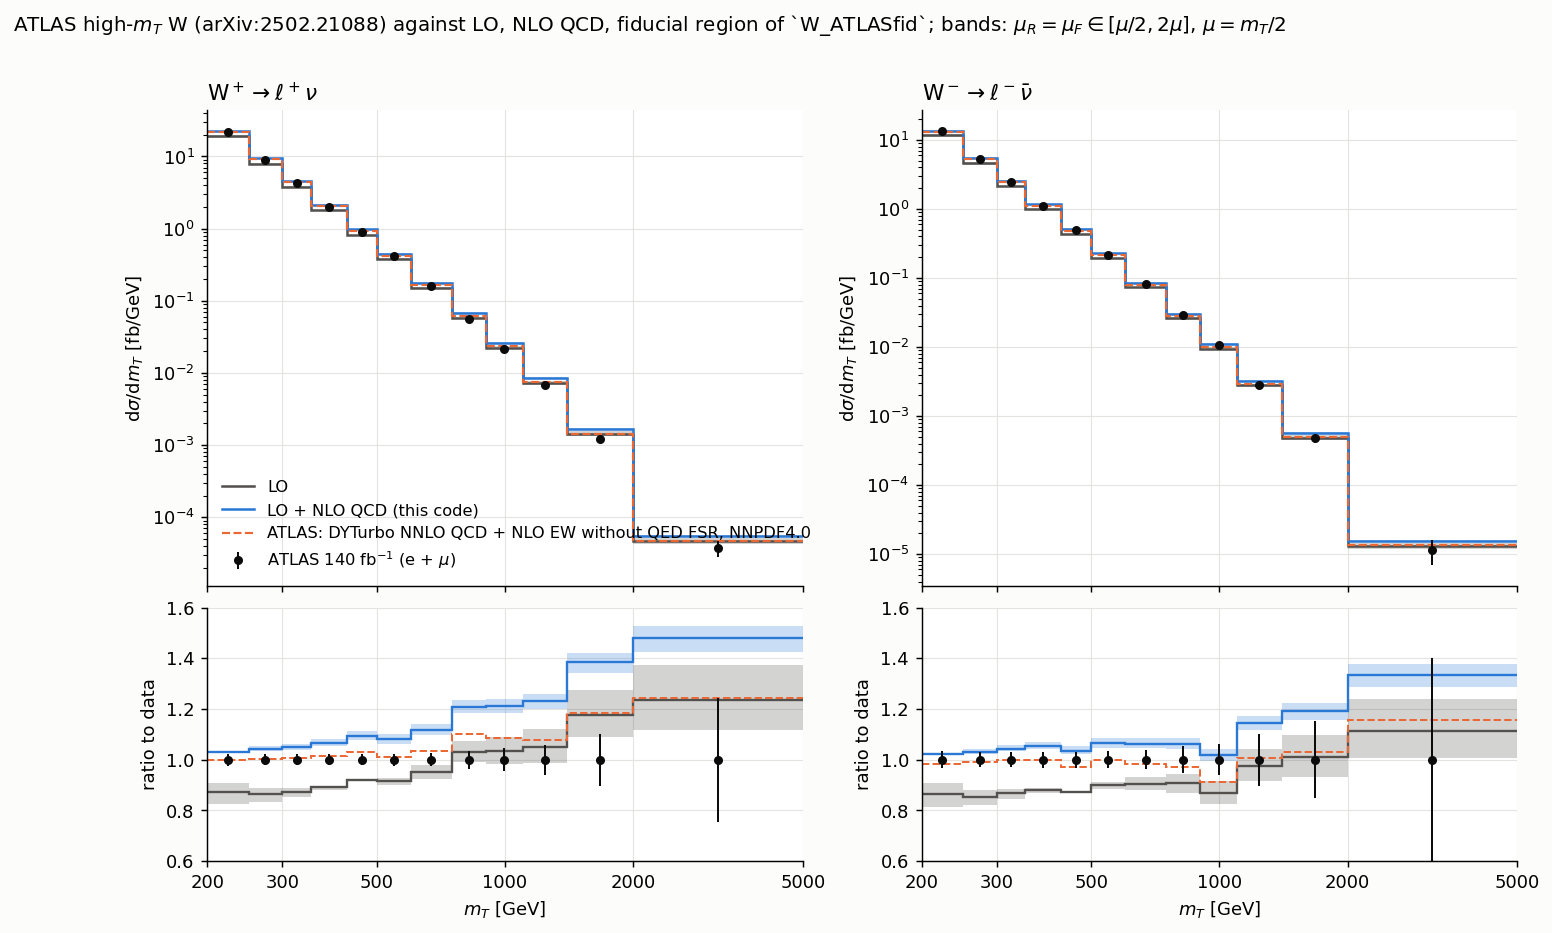
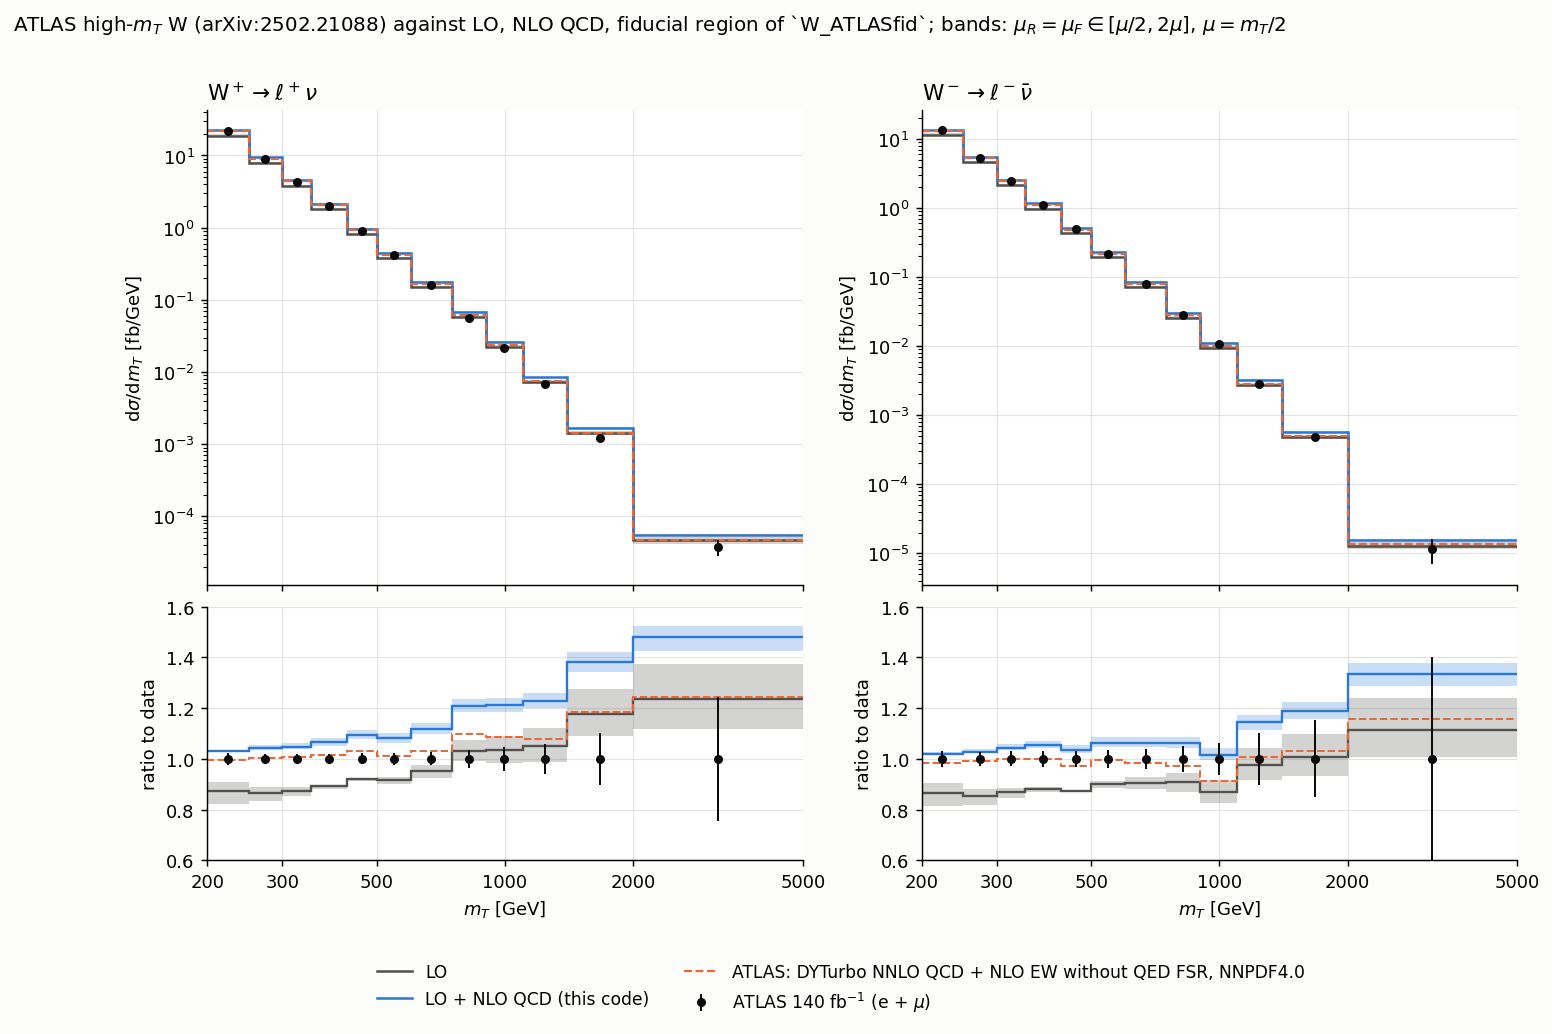
ATLAS plot: legend below the panels (covered the last W+ bin)

diff --git a/f90/cluster_KIT/plot_atlas.py b/f90/cluster_KIT/plot_atlas.py
@@ -70,7 +70,6 @@ for j, b in enumerate(('wp', 'wm')):
     bot.set_xticks([200, 300, 500, 1000, 2000, 5000], ['200', '300', '500', '1000', '2000', '5000']); bot.minorticks_off()
     for a in (top, bot):
         a.grid(True, color=GRID, lw=0.6); a.set_axisbelow(True); a.spines[['top', 'right']].set_visible(False); a.set_xlim(e[0], e[-1])
-    if j == 0: top.legend(frameon=False, fontsize=9, loc='lower left')
     ew_cols = [(c[2], c[0][:, 0]) for c in curves[2:]]
     table += [f'## {label.replace("$", "")}', '', '| m_T [GeV] | ATLAS | LO | LO + NLO QCD (mu/2, 2mu) | NLO QCD / data | '
               + ''.join(f'{l.replace("LO + NLO QCD + ", "+ ")} / data | ' for l, _ in ew_cols) + 'ATLAS DYTurbo / data |',
@@ -84,6 +83,7 @@ for j, b in enumerate(('wp', 'wm')):
               + f'ATLAS DYTurbo (NNLO QCD + NLO EW without FSR) {sig(dyt):.1f}', '']
 fig.suptitle(f'ATLAS high-$m_T$ W (arXiv:2502.21088) against LO, NLO QCD{" and NLO EW" if len(curves) > 2 else ""}, fiducial region of `W_ATLASfid`; bands: '
              '$\\mu_R = \\mu_F \\in [\\mu/2, 2\\mu]$, $\\mu = m_T/2$', x=0.01, ha='left', fontsize=11)
+fig.legend(*axes[0, 0].get_legend_handles_labels(), loc='upper center', bbox_to_anchor=(0.5, 0.02), ncol=2, frameon=False, fontsize=9.5)
 fig.savefig(os.path.join(OUT, 'atlas_mT.png'), dpi=130, bbox_inches='tight', facecolor='#fcfcfb')
 open(os.path.join(OUT, 'atlas_mT.md'), 'w').write('\n'.join(table) + '\n')
 print(os.path.join(OUT, 'atlas_mT.png'))
